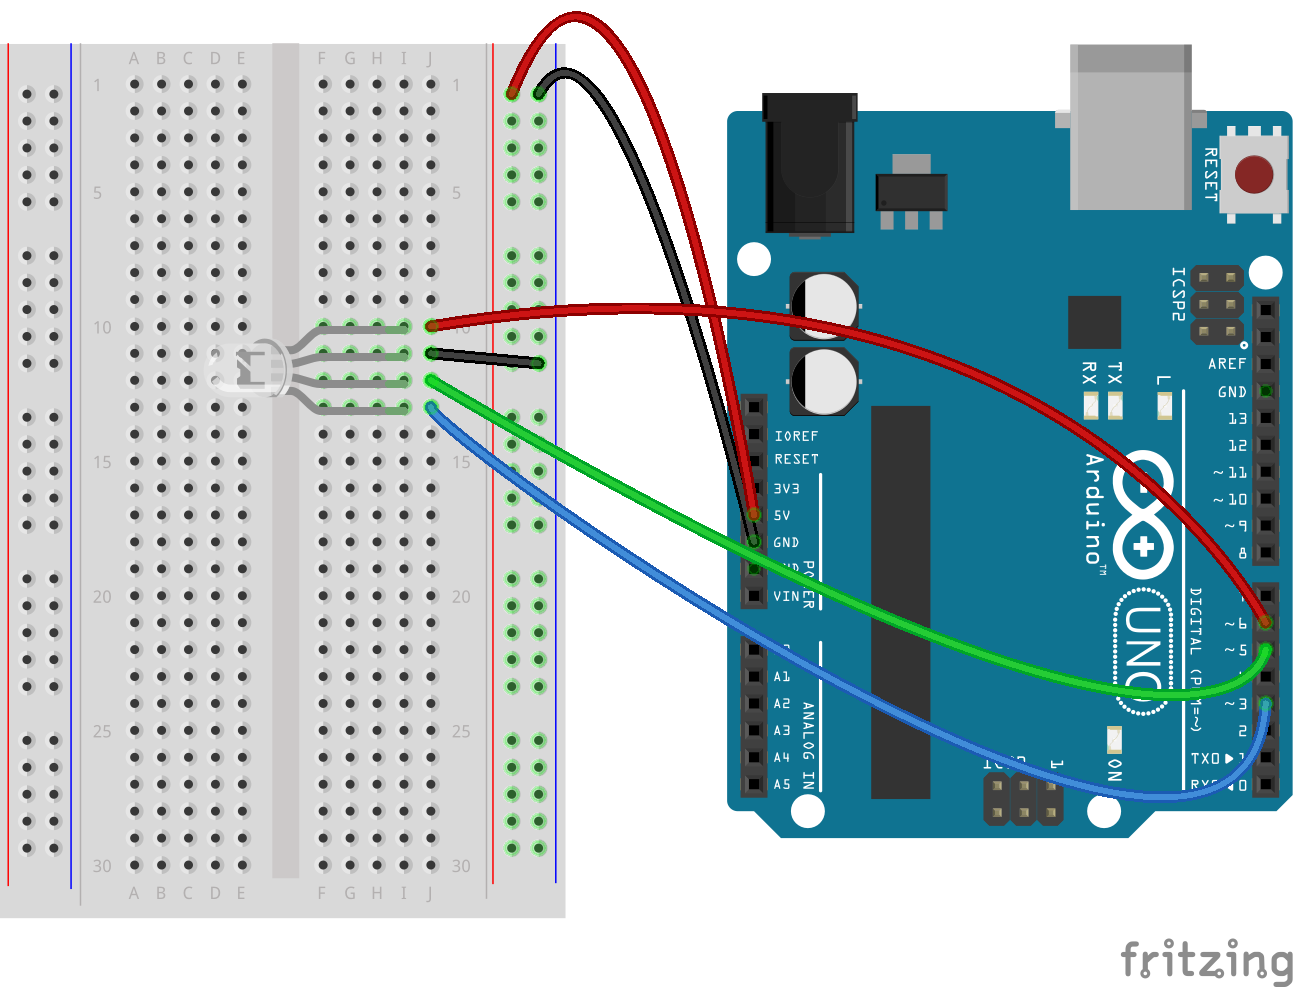
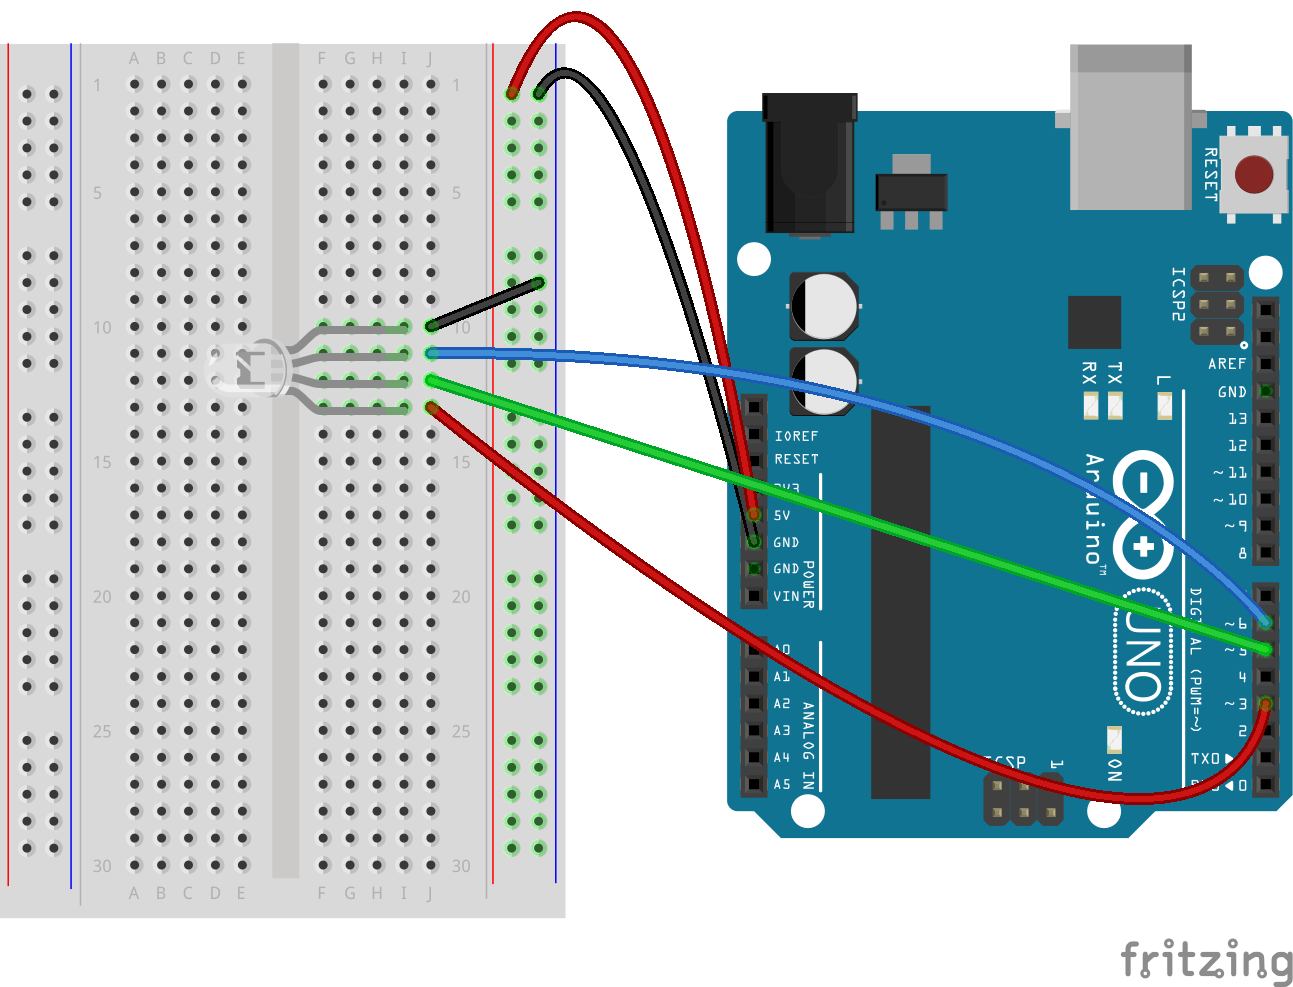
edit rgb sensor image and code

diff --git a/README.md b/README.md
@@ -166,29 +166,19 @@ var board = new five.Board();
 
 board.on("ready", function() {
 
-  // Initialize the RGB LED
+  // Initialize the RGB Led
   var led = new five.Led.RGB({
     pins: {
-      red: 6,
+      red: 3,
       green: 5,
-      blue: 3
+      blue: 6
     }
   });
 
-  // RGB LED alternate constructor
-  // This will normalize an array of pins in [r, g, b]
-  // order to an object (like above) that's shaped like:
-  // {
-  //   red: r,
-  //   green: g,
-  //   blue: b
-  // }
-  //var led = new five.Led.RGB([3,5,6]);
-
-  // Turn it on and set the initial color
-  led.on();
-  led.color("#FF0000");
-  led.blink(1000);
+// Turn it on and set the initial color
+led.on();
+led.color("#0000ff");
+led.blink(1000);
 
 });
 ```
